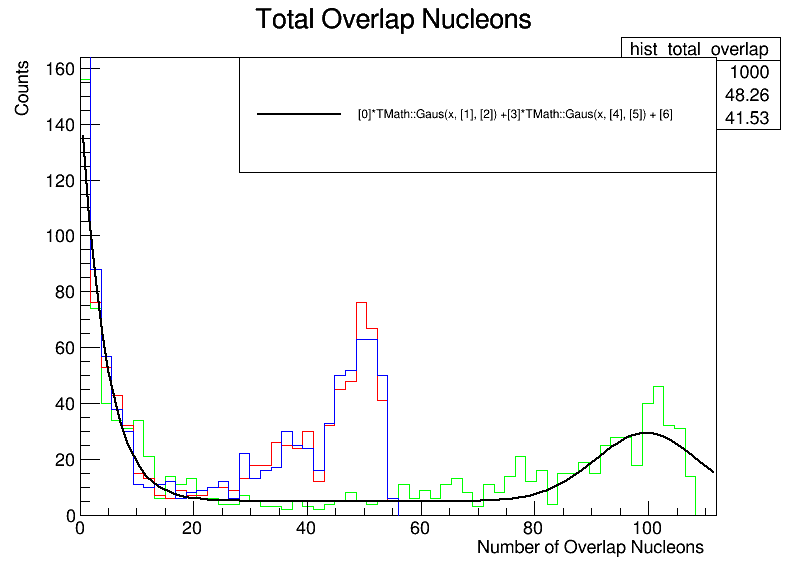
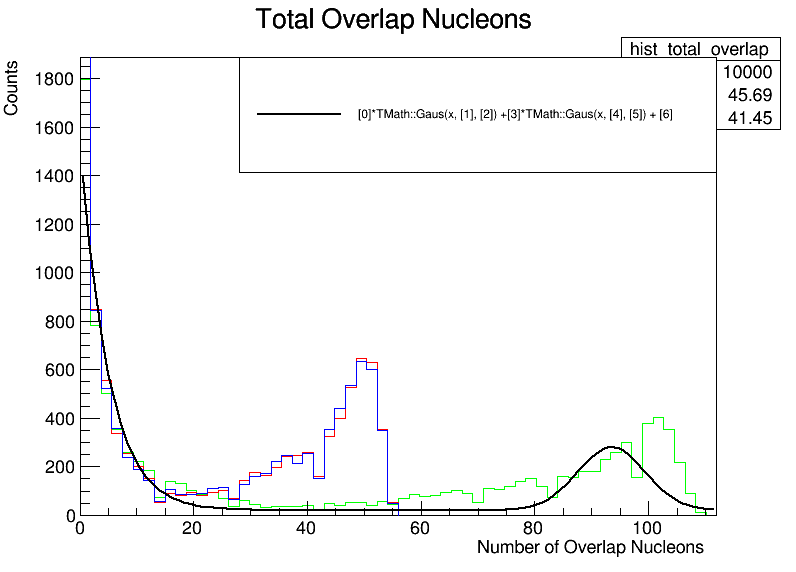
change entries to 10000

diff --git a/course_work/course_work.cpp b/course_work/course_work.cpp
@@ -25,7 +25,7 @@
 #include <vector>
 #include <cmath>
 using namespace std;
-#define ATTEMPTS 1000
+#define ATTEMPTS 10000
 // #define A 56
 // #define Z 26
 // #define N 30
@@ -136,7 +136,7 @@ int main() {
     hist_overlap_n2->Draw("hist same");
 
     TF1 *fit_func = new TF1("fit_func", "[0]*TMath::Gaus(x, [1], [2]) + [3]*TMath::Gaus(x, [4], [5]) + [6]", 0, 112);
-    fit_func->SetParameters(160, 0, 5, 40, 100, 15, 10);
+    fit_func->SetParameters(1600, 0, 5, 400, 100, 15, 100);
     hist_total_overlap->Fit("fit_func", "Q");
     fit_func->SetLineColor(kBlack);
     fit_func->Draw("same");
